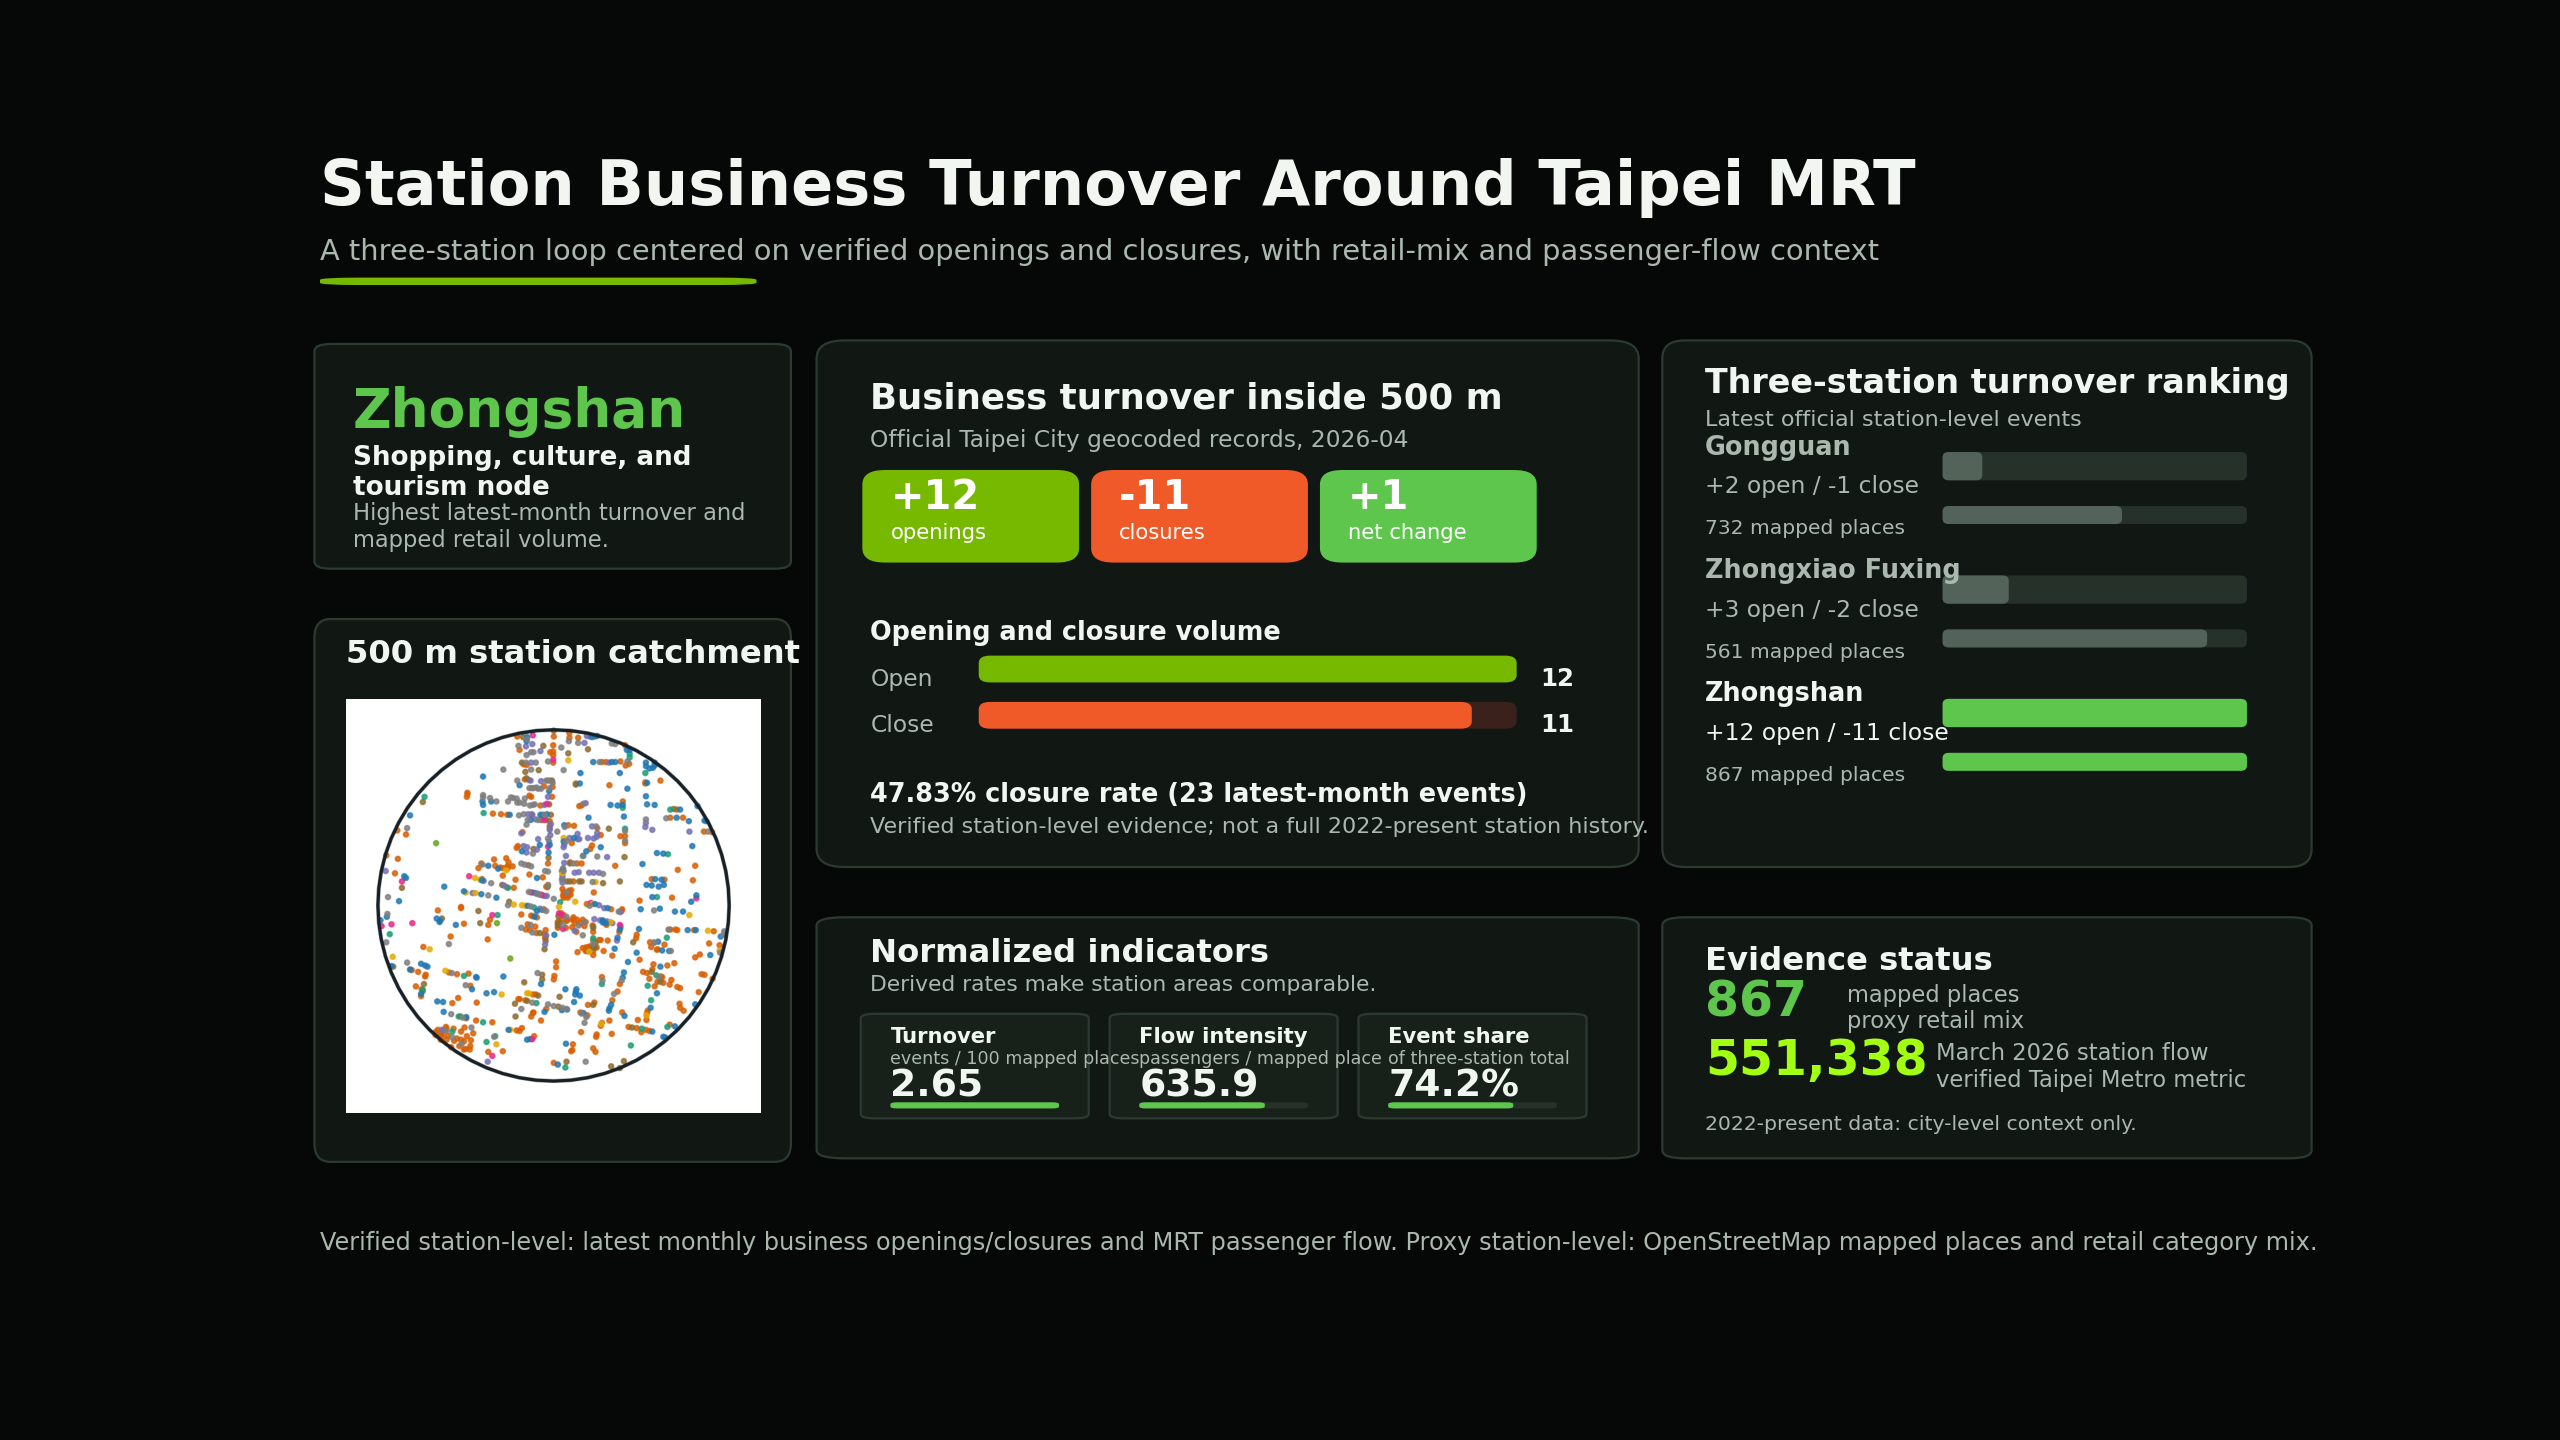
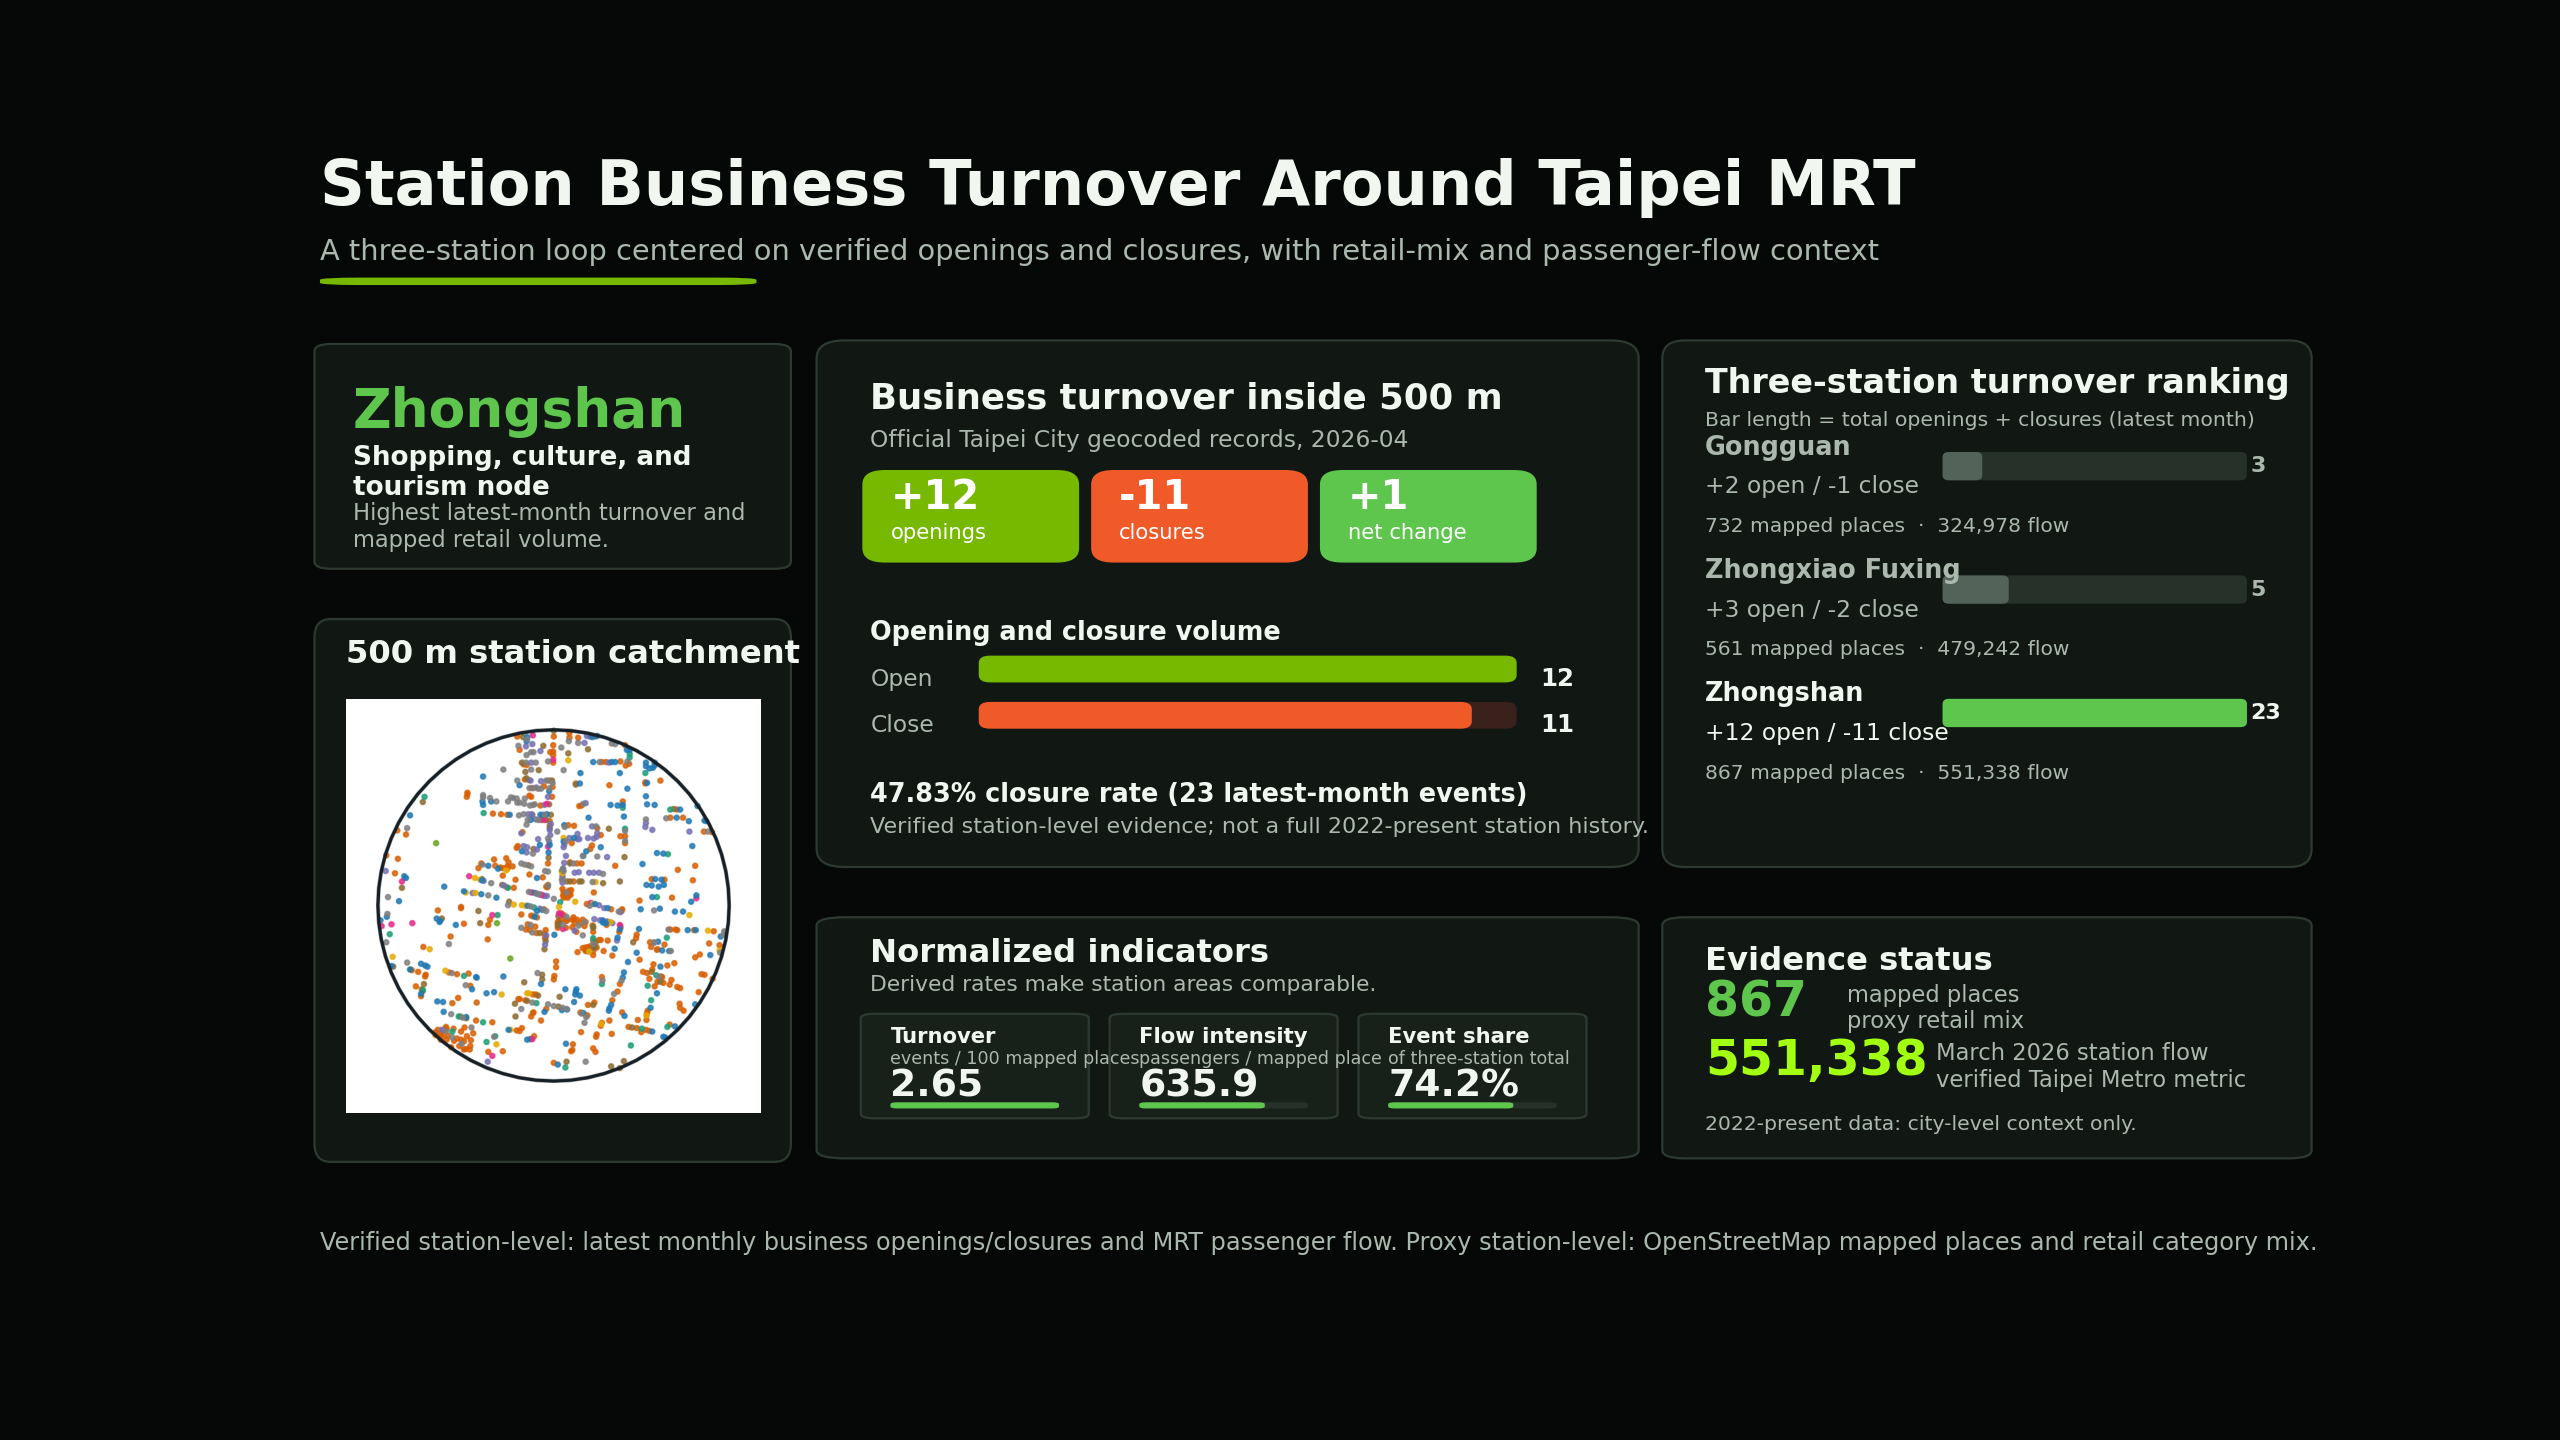
Verify data and improve README readability and dashboard ranking clarity
- Add an 'At a glance' summary to the README for faster scanning
- Document the small OpenStreetMap POI count gap between separate query passes
- Note that latest-month events are business-registration records, not storefront-only retail
- Declutter the three-station ranking panel: one labeled events bar per station with a value at the bar end, passenger flow folded into the sub-line, and an explicit bar-length caption

diff --git a/scripts/14_make_station_frontpage_animation.py b/scripts/14_make_station_frontpage_animation.py
@@ -242,9 +242,7 @@ def draw_station_comparison(ax, categories: pd.DataFrame, station_id: str) -> No
     ax.axis("off")
     rounded_panel(ax)
     ax.text(0.055, 0.91, "Three-station turnover ranking", transform=ax.transAxes, fontsize=15, weight="bold", color=TEXT)
-    ax.text(0.055, 0.845, "Latest official station-level events", transform=ax.transAxes, fontsize=10, color=MUTED)
-    max_poi = categories["total_osm_pois"].max()
-    max_flow = categories["total_station_flow"].max()
+    ax.text(0.055, 0.845, "Bar length = total openings + closures (latest month)", transform=ax.transAxes, fontsize=9.2, color=MUTED)
     max_events = max(categories["total_events"].max(), 1)
     labels = {
         "gongguan": "Gongguan",
@@ -281,28 +279,24 @@ def draw_station_comparison(ax, categories: pd.DataFrame, station_id: str) -> No
                 transform=ax.transAxes,
             )
         )
-        ax.text(0.055, y - 0.045, f"{int(row['total_osm_pois']):,} mapped places", transform=ax.transAxes, fontsize=9.1, color=MUTED)
-        ax.add_patch(
-            FancyBboxPatch(
-                (0.43, y - 0.025),
-                0.48,
-                0.035,
-                boxstyle="round,pad=0,rounding_size=0.01",
-                linewidth=0,
-                facecolor="#263229",
-                transform=ax.transAxes,
-            )
+        ax.text(
+            0.915,
+            y + 0.0875,
+            f"{int(row['total_events'])}",
+            transform=ax.transAxes,
+            fontsize=10,
+            weight="bold",
+            ha="left",
+            va="center",
+            color=text_color,
         )
-        ax.add_patch(
-            FancyBboxPatch(
-                (0.43, y - 0.025),
-                0.48 * row["total_station_flow"] / max_flow,
-                0.035,
-                boxstyle="round,pad=0,rounding_size=0.01",
-                linewidth=0,
-                facecolor=color,
-                transform=ax.transAxes,
-            )
+        ax.text(
+            0.055,
+            y - 0.04,
+            f"{int(row['total_osm_pois']):,} mapped places  ·  {int(row['total_station_flow']):,} flow",
+            transform=ax.transAxes,
+            fontsize=9.1,
+            color=MUTED,
         )
 
 

diff --git a/README.md b/README.md
@@ -10,6 +10,13 @@ This repository contains a reproducible Python data science project that compare
 
 The core question is whether the three station areas show different levels of commercial turnover and retail intensity. The project uses official geocoded Taipei City business opening/closure records where station-level evidence is available, then supports the interpretation with OpenStreetMap retail places, Taipei Metro passenger flow, station-exit catchments, and walk-network sensitivity checks.
 
+## At a glance
+
+- **Strongest latest-month turnover:** Zhongshan, with 23 business events (12 openings, 11 closures) inside its 500 m catchment in April 2026, against 5 at Zhongxiao Fuxing and 3 at Gongguan.
+- **Size-adjusted, Zhongshan still leads:** 2.65 events per 100 mapped places, versus 0.89 at Zhongxiao Fuxing and 0.41 at Gongguan.
+- **Flow does not match footprint:** Zhongxiao Fuxing has the highest passenger flow per mapped place (854), a sign that its vertical malls and underground retail are undercounted by point-of-interest data.
+- **Evidence boundary:** station-level opening/closure proof covers the latest geocoded month only. The 2022-present series is city/national context, OpenStreetMap counts are a proxy, and the events are official business-registration records rather than a street-retail-only census.
+
 ## Start here: station-level openings and closures
 
 The main GitHub visual is a looping front-page dashboard focused on business openings and closures around the three MRT stations. It cycles through Gongguan, Zhongxiao Fuxing, and Zhongshan, with the verified latest-month opening/closure counts shown first and the 500 m catchment map, mapped retail categories, passenger flow, and three-station ranking shown as supporting context.
@@ -253,6 +260,8 @@ Food-related points of interest are the largest category in all three station ar
 
 The catchment definition changes the results. Exit-based buffers increase point-of-interest counts because multiple station exits expand the effective catchment footprint. Walk-network catchments reduce point-of-interest counts because they are constrained by the reachable pedestrian network rather than a full circle.
 
+The circular-center counts here (733 / 869) differ by one to two places from the baseline counts above (732 / 867) because the retail-mix and catchment-comparison steps query OpenStreetMap in separate passes, and OpenStreetMap is a live database. These small gaps are expected for proxy point-of-interest data and do not affect the station ranking.
+
 ### Walk-network area comparison
 
 | Station | Reachable OpenStreetMap nodes | Network catchment area sqm | Circular area sqm | Network area as percent of circular |
@@ -323,6 +332,7 @@ The official business-registration data adds a turnover-pressure context: retail
 - OpenStreetMap points of interest are not official business records.
 - OpenStreetMap completeness varies by area and by tag.
 - Latest Taipei City business opening/closure records are geocoded and joined to the three station catchments, but only for the latest available monthly files.
+- These records are official business-registration events (establishments and closures). Many are small or upper-floor registrations such as studios, workshops, and sole-proprietor trading firms, so the counts measure registered business turnover, not street-level storefront retail alone.
 - The full 2022-present opening/closure history is currently analyzed at city/industry level, not as geocoded point records inside each MRT catchment.
 - A circular 500 m buffer does not model pedestrian barriers, exits, underground passages, or actual walking paths.
 - The walk-network catchment uses an approximate convex-hull service area from reachable OpenStreetMap nodes, not a full network-service polygon.